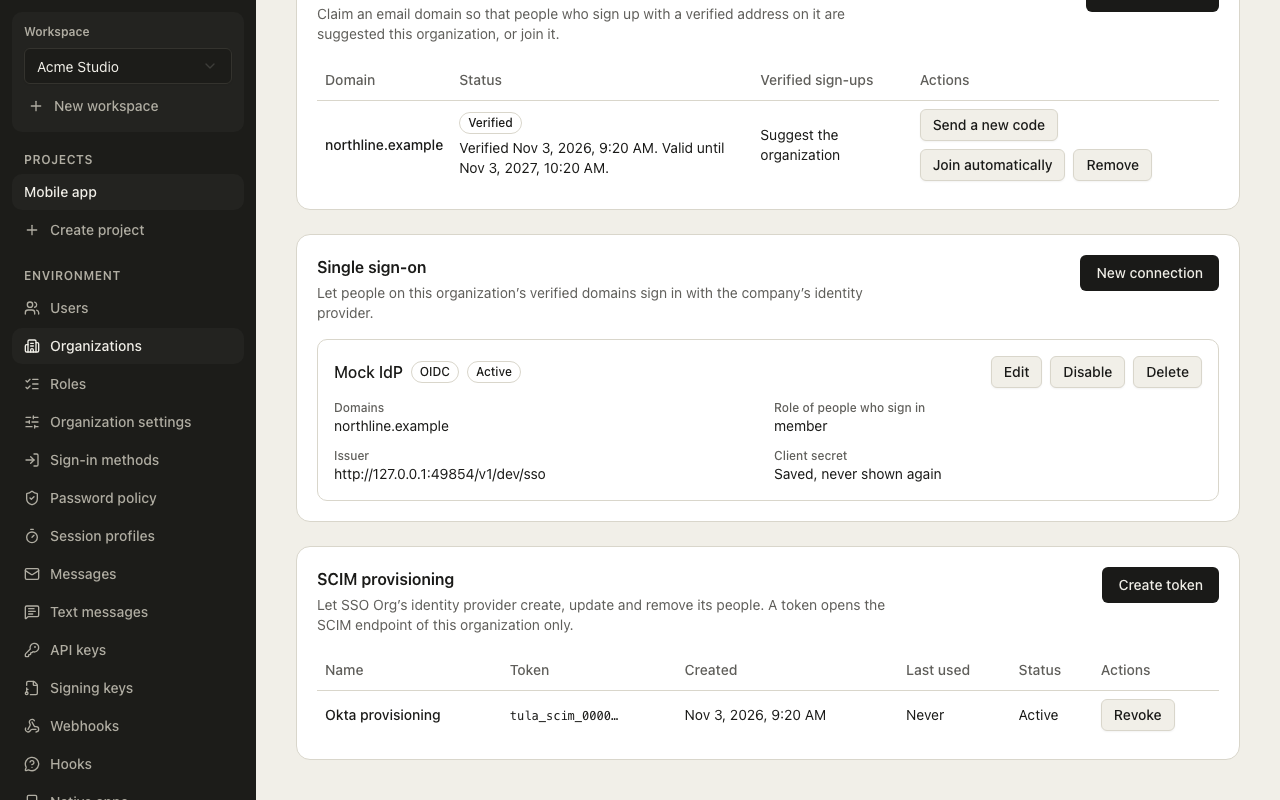
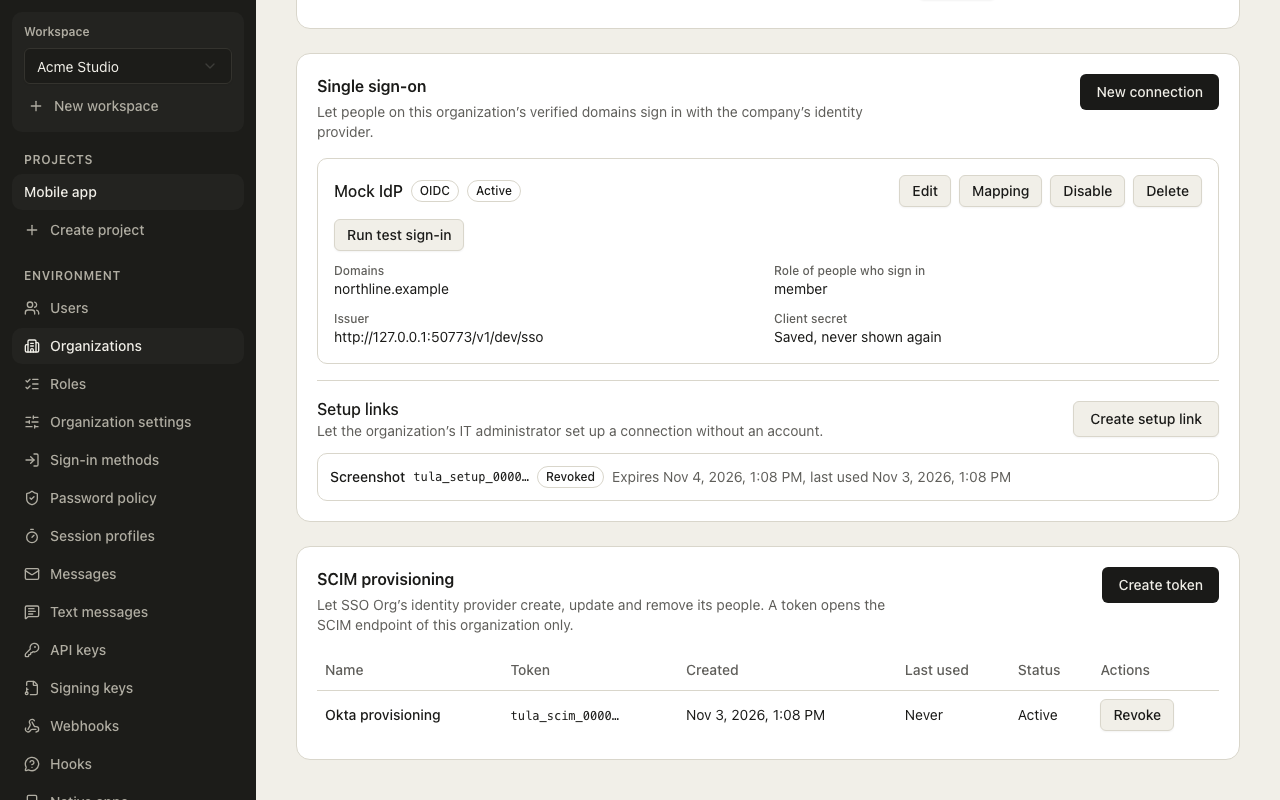
test(e2e): reopen the organization after the setup portal; refresh the SSO, SCIM and setup-portal screenshots
Claude-Session: https://claude.ai/code/session_01GVLsRtE52qs8qZGbcUxg3N

diff --git a/e2e/tests/dashboard/screenshots.spec.ts b/e2e/tests/dashboard/screenshots.spec.ts
@@ -225,7 +225,8 @@ test('the dashboard’s screens, in light, dark and at a phone’s width', async
 
   // SCIM provisioning, on the same organization: one token that has not been used yet.
   await send('POST', '/v1/admin/scim-tokens', { organizationId: ssoId, name: 'Okta provisioning' })
-  await page.reload()
+  // Not a reload: after the setup portal the page is still on the (now revoked) link's address.
+  await open(page, `${ENVIRONMENT_PATH}/organizations/${ssoId}`, 'SSO Org')
   const scim = page.getByRole('table', { name: 'SCIM tokens' })
   await expect(scim).toBeVisible()
   await scim.scrollIntoViewIfNeeded()
